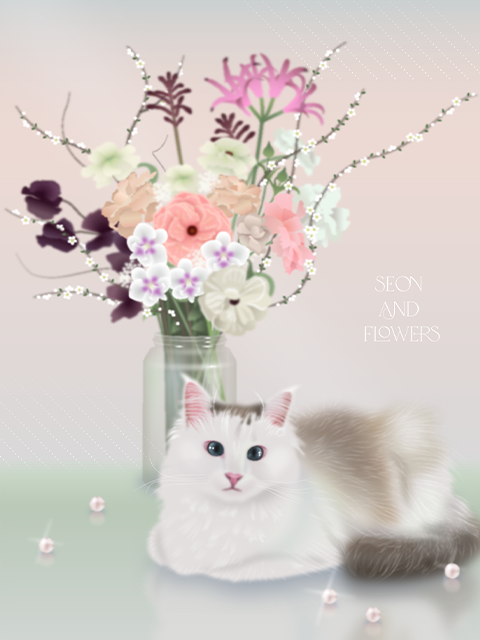
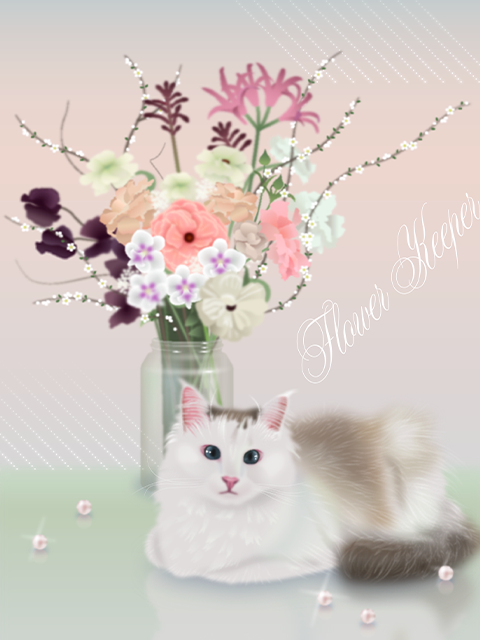
Add files via upload

diff --git a/flowerkeeper.html b/flowerkeeper.html
@@ -1,0 +1,391 @@
+<html>
+    <head>
+    <meta charset="UTF-8">
+    <meta http-equiv="X-UA-Compatible" content="IE=edge">
+    <meta name="viewport" content="width=device-width, initial-scale=1.0">
+
+    <title>Flower Keeper | myeon</title>
+    <link href="https://cdn.jsdelivr.net/gh/sunn-us/SUIT/fonts/variable/woff2/SUIT-Variable.css" rel="stylesheet">
+    <link rel="apple-touch-icon" sizes="57x57" href="apple-icon-57x57.png">
+    <link rel="apple-touch-icon" sizes="60x60" href="apple-icon-60x60.png">
+    <link rel="apple-touch-icon" sizes="72x72" href="apple-icon-72x72.png">
+    <link rel="apple-touch-icon" sizes="76x76" href="apple-icon-76x76.png">
+    <link rel="apple-touch-icon" sizes="114x114" href="apple-icon-114x114.png">
+    <link rel="apple-touch-icon" sizes="120x120" href="apple-icon-120x120.png">
+    <link rel="apple-touch-icon" sizes="144x144" href="apple-icon-144x144.png">
+    <link rel="apple-touch-icon" sizes="152x152" href="apple-icon-152x152.png">
+    <link rel="apple-touch-icon" sizes="180x180" href="apple-icon-180x180.png">
+    <link rel="icon" type="image/png" sizes="192x192"  href="android-icon-192x192.png">
+    <link rel="icon" type="image/png" sizes="32x32" href="favicon-32x32.png">
+    <link rel="icon" type="image/png" sizes="96x96" href="favicon-96x96.png">
+    <link rel="icon" type="image/png" sizes="16x16" href="favicon-16x16.png">
+    <link rel="manifest" href="/manifest.json">
+    <meta name="msapplication-TileColor" content="#ffffff">
+    <meta name="msapplication-TileImage" content="/ms-icon-144x144.png">
+    <meta name="theme-color" content="#ffffff">
+
+<style>
+
+body{
+    margin: 0;
+}
+
+.loading{
+z-index: 0;
+position: absolute;
+top: 50%;
+left: 50%;
+transform: translate(-50%, -50%);
+width: 100px;
+height: 100px;}
+
+.loading img{
+    width: 100%;
+    height: 100%;
+}
+
+.background-video{
+    width: 100%;
+    height: 100%;
+    position: fixed;
+}
+
+.background-video video{
+    width:100%;
+    height:100%;
+    object-fit: cover;
+}
+
+.after-loading{
+    opacity: 0;
+    transition: opacity 0.5s ease-in-out;
+}
+
+.page-center{
+    z-index: 2;
+    display: flex;
+    overflow-x: hidden;
+    margin: auto;
+    padding-top: 50px;
+    padding-bottom: 50px;
+    width: 70%;
+    min-height: 610px;
+    max-height: 1200px;
+    min-width: 1200px;
+    max-width: 1500px;
+}
+
+.work-container{
+    z-index: 3;
+    height: auto;
+    overflow: hidden;
+    display: flex;
+    background: linear-gradient(180deg, rgb(255, 255, 255) 0%, rgb(238, 212, 211) 100%);
+}
+
+.workimg{
+    height: calc(100vh - 100px);
+    position: relative;
+    margin-right: 50px;
+    min-height: 720px;
+}
+
+.worktext{
+    overflow-y: hidden;
+    margin-top: 50px;
+    width: 27vw;
+    margin-right: 50px;
+}
+
+.workimg img{
+    height: 100%;
+}
+
+.workimg video{
+    height: 100%;
+}
+
+.left-container{
+    position: relative;
+    margin-right: 40px;
+}
+
+.right-container{
+    position: relative;
+    margin-left: 40px;
+}
+
+.prev{
+    transform: translate(-100%, -50%);
+    z-index: 20;
+    position: fixed;
+    top : 50%
+}
+
+.prev img{
+    height: 36px;
+    width: auto;
+}
+
+.next{
+    transform: translate(0, -50%);
+    width: auto;
+    z-index: 20;
+    position: fixed;
+    top : 50%
+}
+
+.next img{
+    height: 36px;
+    width: auto;
+}
+
+
+
+.button{
+    width: 15%;
+    top: 50%;
+    left: 50%;
+    transform: translate(-50%, -50%);
+    position: absolute;
+}
+
+h3{
+font-family: 'SUIT Variable', sans-serif;
+font-weight: 700;
+margin-top: 0;
+}
+
+h2{
+    font-family: 'SUIT Variable', sans-serif;
+    font-weight: 700;
+    font-size: 1.6em;
+    line-height: 1.6em;
+    margin-bottom: 40px;
+    word-break : keep-all;
+}
+
+.aboutposter{
+    font-family: 'SUIT Variable', sans-serif;
+    font-weight: 400;
+    font-size: 1.2em;
+    line-height: 1.8em;
+    word-break : keep-all;
+    margin-bottom: 40px;
+}
+
+.back{
+    z-index: 20;
+    top: 55px;
+    position: fixed;
+}
+
+.back img{
+    width: 36px;
+    height: auto;
+}
+
+
+.cursorItem1 {
+  position: fixed;
+  top: 0;
+  left: 0;
+  z-index: 1000;
+  pointer-events: none;
+}
+
+.cursorItem2 {
+  position: fixed;
+  top: 0;
+  left: 0;
+  z-index: 1000;
+  pointer-events: none;
+}
+
+.cursorItem3 {
+  position: fixed;
+  top: 0;
+  left: 0;
+  z-index: 1000;
+  pointer-events: none;
+}
+
+.cursorItem1 .circle1 {
+  position: fixed;
+  display: block;
+  width: 20px;
+  height: 20px;
+  margin: -10px 0 0 -10px;
+  background-color: white;
+  border-radius: 50%;
+  transition: all 0.2s ease-in-out;
+  opacity: 0.9;
+}
+
+.cursorItem2 .circle2 {
+  position: fixed;
+  display: block;
+  width: 15px;
+  height: 15px;
+  margin: -7.5px 0 0 -7.5px;
+  background-color: white;
+  border-radius: 50%;
+  transition: all 0.2s ease-in-out;
+  opacity: 0.6;
+}
+
+.cursorItem3 .circle3 {
+  position: fixed;
+  display: block;
+  width: 10px;
+  height: 10px;
+  margin: -5px 0 0 -5px;
+  background-color: white;
+  border-radius: 50%;
+  transition: all 0.2s ease-in-out;
+  opacity: 0.3;
+}
+
+@media screen and (max-width: 1699px){
+    h3 {font-size: 1.1em;}
+    h2 {font-size: 1.4em;}
+    .aboutposter{font-size: 1.1em;}
+}
+
+@media screen and (min-width: 1700px) and (max-width: 1920px){
+    h3 {font-size: 1.1em;}
+    h2 {font-size: 1.5em;}
+    .aboutposter{font-size: 1.1em;}
+}
+
+@media screen and (min-width: 1921px){
+    h3 {font-size: 1.2em;}
+    h2 {font-size: 1.6em;}
+    .aboutposter{font-size: 1.2em;}
+}
+
+</style>
+</head>
+<body>
+    <div class="background-video">
+        <video autoplay muted loop>
+            <source src="main_blur.mp4">
+        </video>
+    </div>
+
+    <div class="loading" id="loadinggif">
+        <img src="loading.gif">
+    </div>
+
+    <div class="after-loading" id="afterLoading">
+    <div class="page-center">
+        <div class="left-container">
+            <div class="prev">
+            <a href="hbaf.html">
+            <img src="prev.svg">
+            </a>
+            </div>
+        </div>
+    <div class="work-container">
+        <div class="workimg" id="img1">
+        <img src="flowerandseon.png">
+        </div>
+        <div class="worktext">
+            <h3>
+                GRAPHIC DESIGN
+            </h3>
+            <h2>
+                꽃 지킴이
+            </h2>
+
+            <p class="aboutposter">
+                졸업식 꽃다발 앞을 지키고 앉아 있는 선이의 모습을 그렸습니다.
+            </p>
+
+            <p class="aboutposter">
+                사용 소프트웨어 : Illustrator
+                <br>사이즈 : A3
+                <br>*개인 작업
+            </p>
+
+        </div>
+    </div>    
+    <div class="right-container">
+        <div class="back">
+            <a href="index.html#list">
+                <img src="x_red.svg">
+            </a>
+        </div>
+        <div class="next">
+            <a href="littleflamingo.html">
+            <img src="next.svg">
+        </a>
+        </div>
+    </div>
+</div>
+</div>
+
+<div class="cursorItem1">
+    <span class="circle1"></span>
+</div>
+
+<div class="cursorItem2">
+    <span class="circle2"></span>
+</div>
+
+<div class="cursorItem3">
+    <span class="circle3"></span>
+</div>
+</body>
+<script src="https://ajax.googleapis.com/ajax/libs/jquery/3.2.0/jquery.min.js"></script>
+
+<script type="text/javascript">
+
+const loadingFinish = document.getElementById("afterLoading");
+const loadingGif = document.getElementById("loadinggif");
+
+window.addEventListener('load', function() {
+    loadingFinish.style.opacity = '1';
+    loadingGif.style.opacity = '0';
+});
+
+let cursorItem1;
+let cursorItem2;
+let cursorItem3;
+let x=0, y = 0;
+let mx=0, my = 0;
+let nx=0, ny = 0;
+let ox=0, oy = 0;
+
+window.onload = function(){
+
+    cursorItem1 = document.querySelector(".cursorItem1");  
+    cursorItem2 = document.querySelector(".cursorItem2");  
+    cursorItem3 = document.querySelector(".cursorItem3");  
+
+    window.addEventListener("mousemove", function(e){
+        x = e.clientX;
+        y = e.clientY;
+        cursorItem1.style.transform = "translate("+ x +"px, "+ y + "px )";
+        cursorItem2.style.transform = "translate("+ x +"px, "+ y + "px )";
+        cursorItem3.style.transform = "translate("+ x +"px, "+ y + "px )";
+    });
+    loop();
+}
+
+function loop(){
+    mx += (x - mx ) * 0.09;
+    my += (y - my ) * 0.09; 
+    nx += (x - nx ) * 0.06;
+    ny += (y - ny ) * 0.06; 
+    ox += (x - ox ) * 0.04;
+    oy += (y - oy ) * 0.04; 
+    cursorItem1.style.transform = "translate("+ mx +"px, "+ my + "px )";
+    cursorItem2.style.transform = "translate("+ nx +"px, "+ ny + "px )";
+    cursorItem3.style.transform = "translate("+ ox +"px, "+ oy + "px )";
+    requestAnimationFrame(loop);
+}
+
+
+</script>
+    </html>
